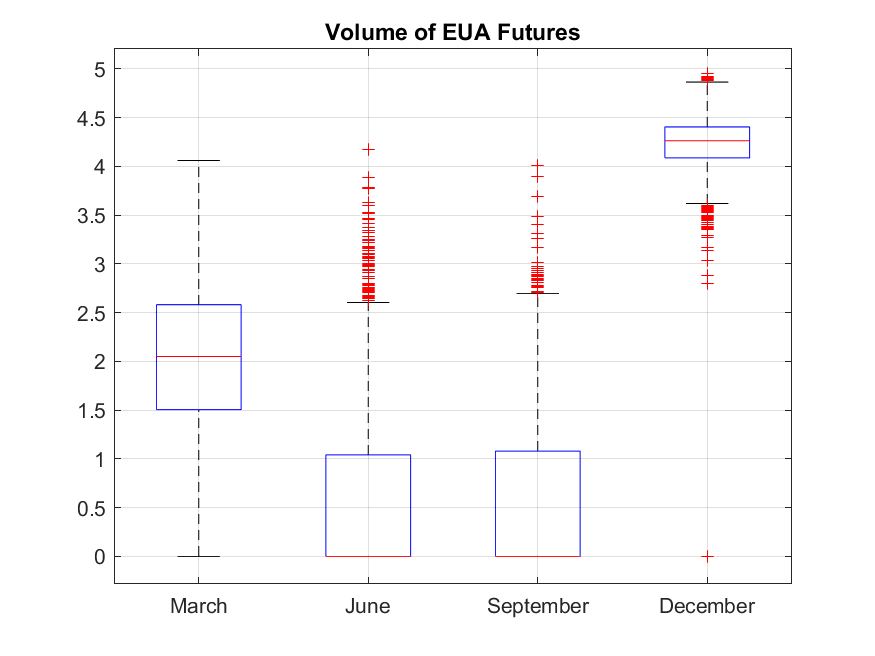
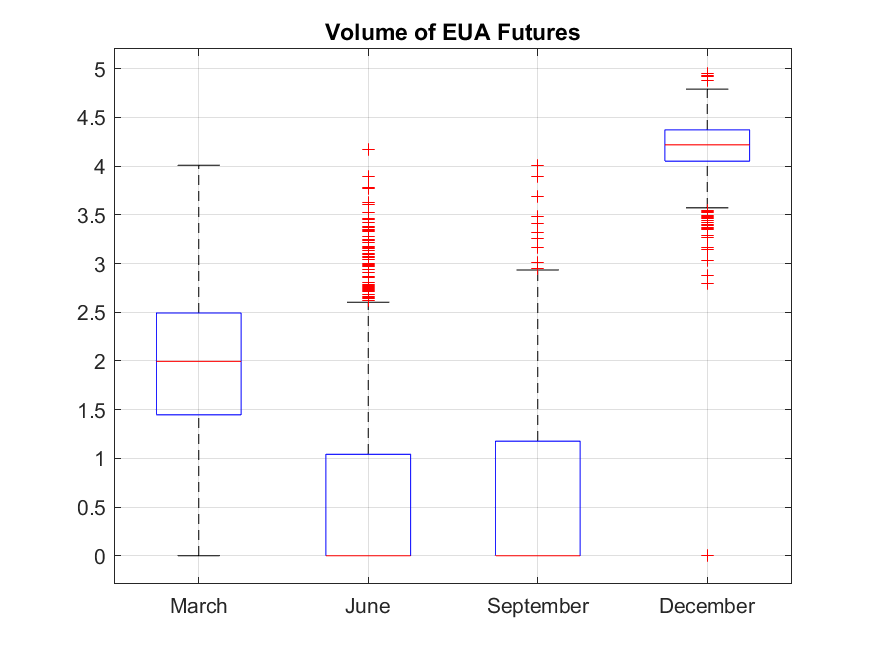
Change dates on the volumes

diff --git a/runFinalProject_Group3B.m b/runFinalProject_Group3B.m
@@ -50,14 +50,14 @@ Volumes_fronts_months = [
     Volumes_march_front.Volume;
     Volumes_june_front.Volume;
     Volumes_sept_front.Volume;
-    Front_December.Volume
-    ];
+    Front_December(Front_December.Date < phase_III_dates(2), :).Volume
+];
 
 grouping = [
     zeros(height(Volumes_march_front),1);
     ones(height(Volumes_june_front),1);
     2*ones(height(Volumes_sept_front),1);
-    3*ones(height(Front_December),1)
+    3*ones(height(Front_December(Front_December.Date < phase_III_dates(2), :)),1)
     ];
 
 plot_Volumes_fronts_months(Volumes_fronts_months, grouping, true)
@@ -65,15 +65,15 @@ plot_Volumes_fronts_months(Volumes_fronts_months, grouping, true)
 % boxplot of the December front and next
 
 Volumes_dec = [
-    Front_December.Volume;
-    Next_December.Volume;
-    Next_2_December.Volume
+    Front_December(Front_December.Date < phase_III_dates(2), :).Volume;
+    Next_December(Next_December.Date < phase_III_dates(2), :).Volume;
+    Next_2_December(Next_2_December.Date < phase_III_dates(2), :).Volume
     ];
 
 grouping = [
-    zeros(height(Front_December),1);
-    ones(height(Next_December),1);
-    2*ones(height(Next_2_December),1)
+    zeros(height(Front_December(Front_December.Date < phase_III_dates(2),:)), 1);
+    ones(height(Next_December(Next_December.Date < phase_III_dates(2),:)), 1);
+    2*ones(height(Next_2_December(Next_2_December.Date < phase_III_dates(2),:)), 1)
     ];
 
 plot_Volumes_december(Volumes_dec, grouping, true)

diff --git a/Preprocessing/preprocessing.m b/Preprocessing/preprocessing.m
@@ -9,9 +9,9 @@ phase_IV_dates = [datetime(2013, 1, 1), datetime(2022, 10, 28)];
 OIS_Data = preprocess_OIS(phase_IV_dates(1), phase_IV_dates(2));
 
 % create the Volumes for March, June and September
-Volumes_march_front = preprocessVolumesMonth('March', phase_IV_dates(1), phase_IV_dates(2));
-Volumes_june_front = preprocessVolumesMonth('June', phase_IV_dates(1), phase_IV_dates(2));
-Volumes_sept_front = preprocessVolumesMonth('September', phase_IV_dates(1), phase_IV_dates(2));
+Volumes_march_front = preprocessVolumesMonth('March', phase_III_dates(1), phase_III_dates(2));
+Volumes_june_front = preprocessVolumesMonth('June', phase_III_dates(1), phase_III_dates(2));
+Volumes_sept_front = preprocessVolumesMonth('September', phase_III_dates(1), phase_III_dates(2));
 
 % preprocess the December data
 Front_December = preprocessDecember(0, phase_IV_dates(1), phase_IV_dates(2));
